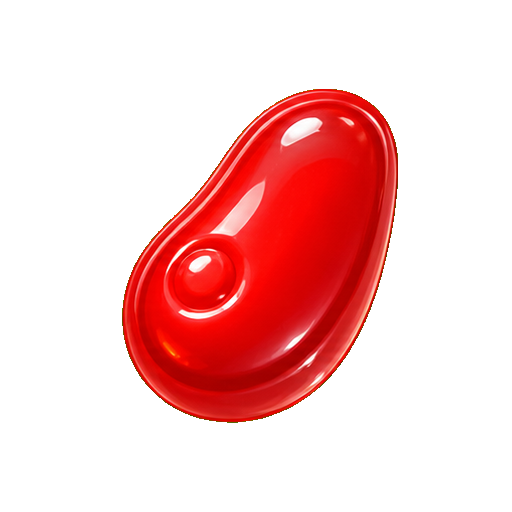
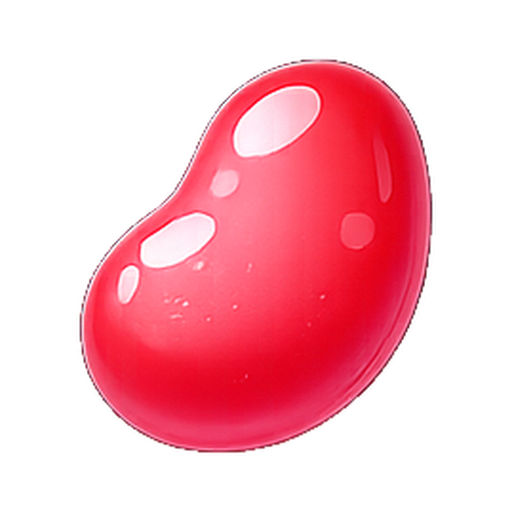
Update normal candy symbols

diff --git a/index.html b/index.html
@@ -13,7 +13,7 @@
         } catch (error) {}
       })();
     </script>
-    <link rel="stylesheet" href="styles.css?v=mobile-assets-20260611-195335" />
+    <link rel="stylesheet" href="styles.css?v=normal-candy-20260611-224712" />
   </head>
   <body>
     <main class="stage">
@@ -60,10 +60,10 @@
                 </div>
                 <div class="stage-slots" id="stageSlots" aria-label="三階段事件預覽">
                   <div class="event-socket active" id="specialMiniSlot" data-stage="1" aria-label="第一階段事件預覽">
-                    <img id="miniSlotIcon" src="assets/symbols/candy-purple.png?v=symbol-rules-70-no-deadlock-rescue" alt="" />
+                    <img id="miniSlotIcon" src="assets/symbols/candy-purple.png?v=normal-candy-20260611-224712" alt="" />
                   </div>
                   <div class="event-socket" data-stage="2" aria-label="第二階段事件預覽">
-                    <img src="assets/symbols/candy-blue.png?v=symbol-rules-70-no-deadlock-rescue" alt="" />
+                    <img src="assets/symbols/candy-blue.png?v=normal-candy-20260611-224712" alt="" />
                   </div>
                   <div class="event-socket jackpot-stage" data-stage="3" aria-label="第三階段事件預覽">
                     <img src="assets/symbols/multiplier-relic-x50.png?v=symbol-rules-70-no-deadlock-rescue" alt="" />
@@ -140,6 +140,6 @@
       </section>
     </main>
 
-    <script src="script.js?v=mobile-assets-20260611-195335"></script>
+    <script src="script.js?v=normal-candy-20260611-224712"></script>
   </body>
 </html>

diff --git a/script.js b/script.js
@@ -4,7 +4,7 @@ const SLOT_COUNT = 3;
 const MULTIPLIER_SIZE = 2;
 const MULTIPLIER_SIZES = [1, 2];
 const MULTIPLIER_COLS = [0, 2, 4];
-const SYMBOL_VERSION = "event-energy-slot-scale";
+const SYMBOL_VERSION = "normal-candy-20260611-224712";
 const SLOT_TURN_MAX = 20;
 const PERF_ENABLED = new URLSearchParams(window.location.search).has("perf");
 const IOS_PERFORMANCE_MODE = /iP(hone|ad|od)/.test(navigator.userAgent)
